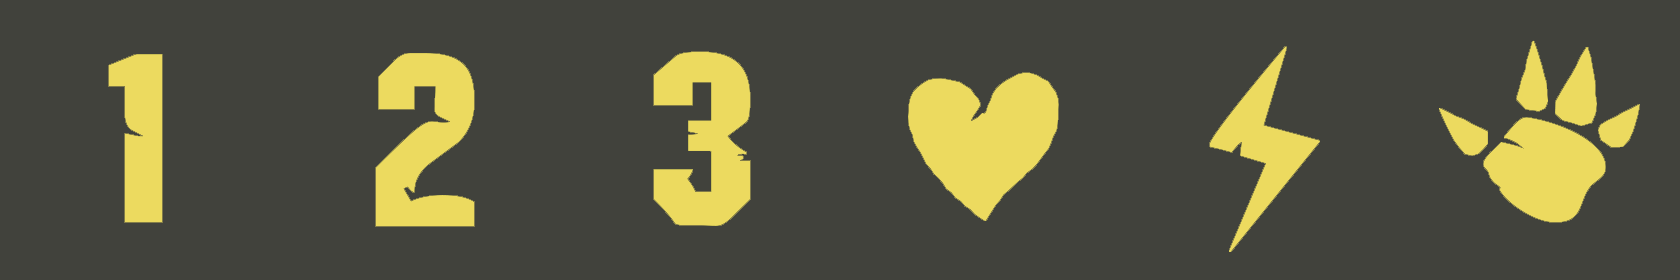
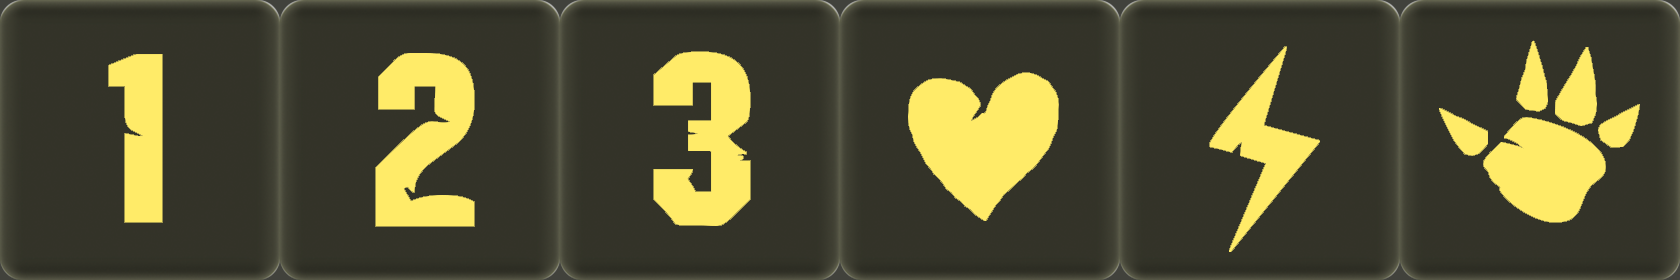
DE update dice

diff --git a/kingoftokyo.css b/kingoftokyo.css
@@ -2101,10 +2101,10 @@ html[data-dark-edition=true] .player-board .counters {
   color: white;
 }
 html[data-dark-edition=true] #rolled-dice #locked-dice {
-  border: 2px solid #ecda5f;
+  border: 2px solid #ffeb68;
 }
 html[data-dark-edition=true] #rolled-dice #locked-dice #lock {
-  background: url("img/lock.svg") #ecda5f;
+  background: url("img/lock.svg") #ffeb68;
   background-repeat: no-repeat;
   background-position: center;
   border-radius: 4px 0 0 4px;
@@ -2113,23 +2113,23 @@ html[data-dark-edition=true] #rolled-dice #locked-dice.hide-lock {
   border-color: transparent;
 }
 html[data-dark-edition=true] #skipBuyPhaseWrapper input:checked + .slider {
-  background-color: #ecda5f;
+  background-color: #ffeb68;
 }
 html[data-dark-edition=true] #skipBuyPhaseWrapper input:focus + .slider {
-  box-shadow: 0 0 1px #ecda5f;
+  box-shadow: 0 0 1px #ffeb68;
 }
 html[data-dark-edition=true] #table .player-table.active {
-  border: 3px solid #ecda5f;
-  box-shadow: 0px 0px 5px 2px #ecda5f;
+  border: 3px solid #ffeb68;
+  box-shadow: 0px 0px 5px 2px #ffeb68;
 }
 html[data-dark-edition=true] .player-board.active {
-  box-shadow: 0px 0px 2px 3px #ecda5f;
+  box-shadow: 0px 0px 2px 3px #ffeb68;
 }
 html[data-dark-edition=true] .double-selection .no-visible-selection-except-double-selection {
-  box-shadow: 0px 0px 5px 5px #ecda5f;
+  box-shadow: 0px 0px 5px 5px #ffeb68;
 }
 html[data-dark-edition=true] .highlight-evolution {
-  box-shadow: 0px 0px 5px 5px #ecda5f;
+  box-shadow: 0px 0px 5px 5px #ffeb68;
 }
 html[data-dark-edition=true] #table #table-center #deck-wrapper #deck {
   background: url("img/dark/card-back.jpg");

diff --git a/src/_dark-edition.scss b/src/_dark-edition.scss
@@ -1,4 +1,4 @@
-$darkEditionYellow: #ecda5f;
+$darkEditionYellow: #ffeb68;
 $darkEditionBlack: #41423c;
 $darkEditionGrey: #737373;
 
